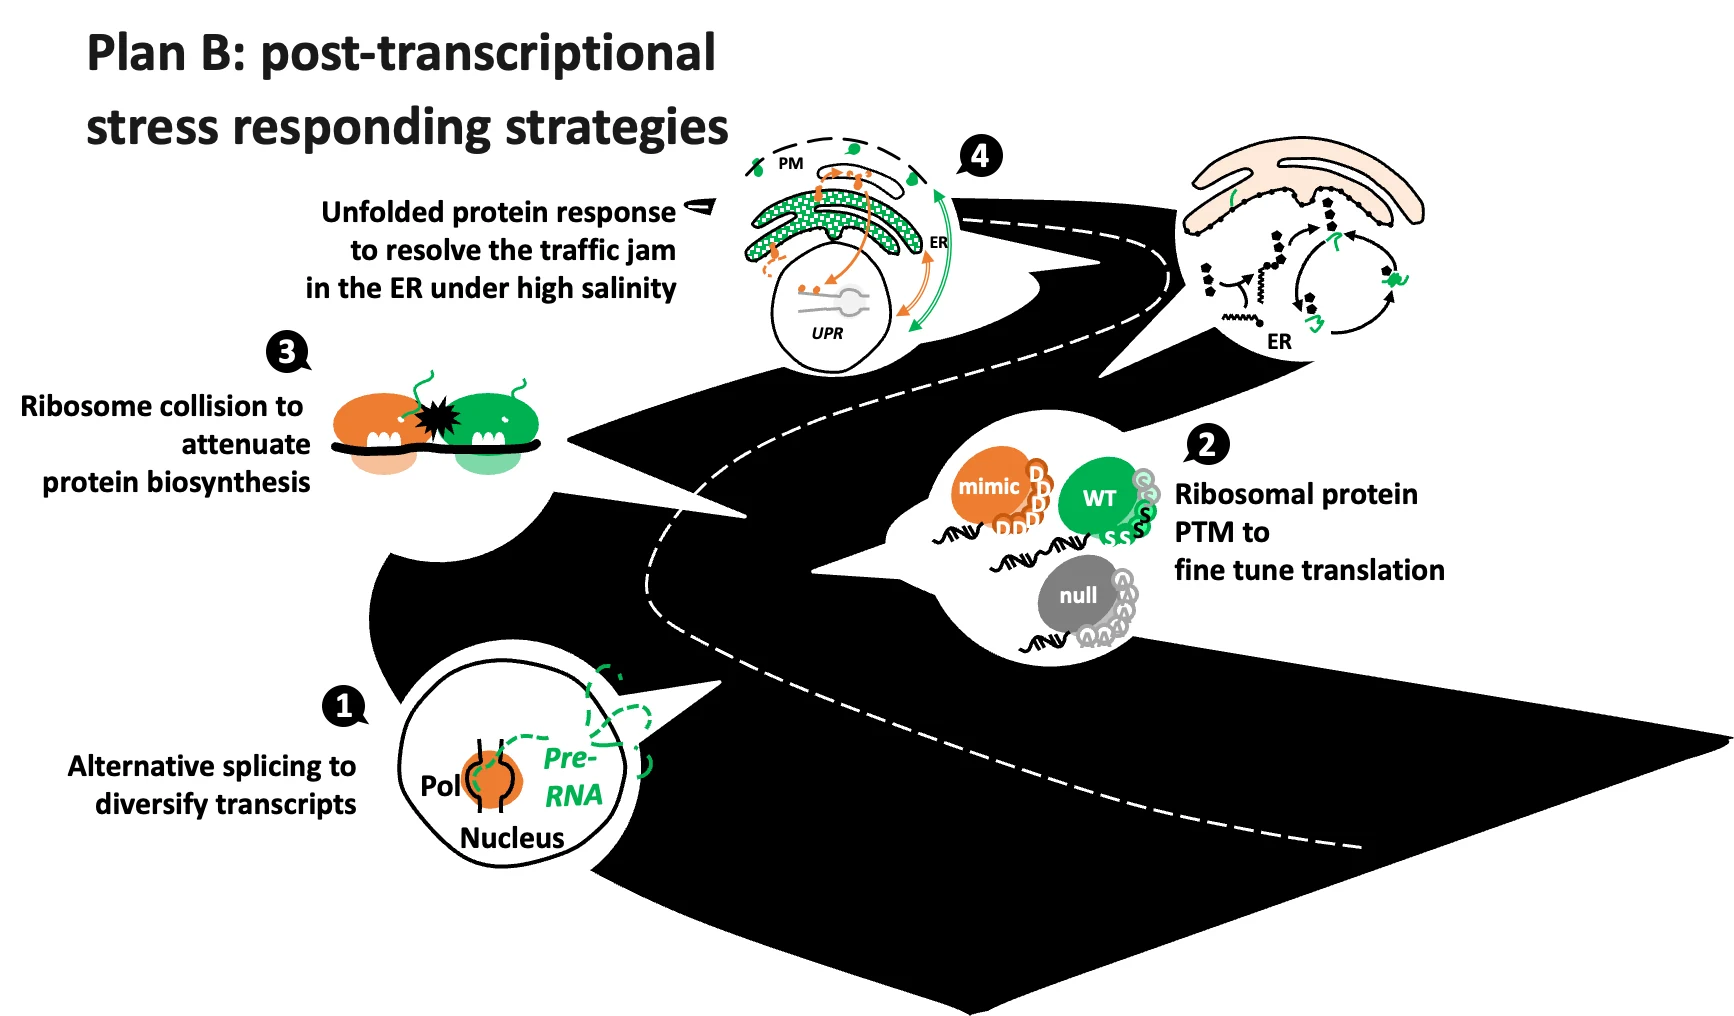
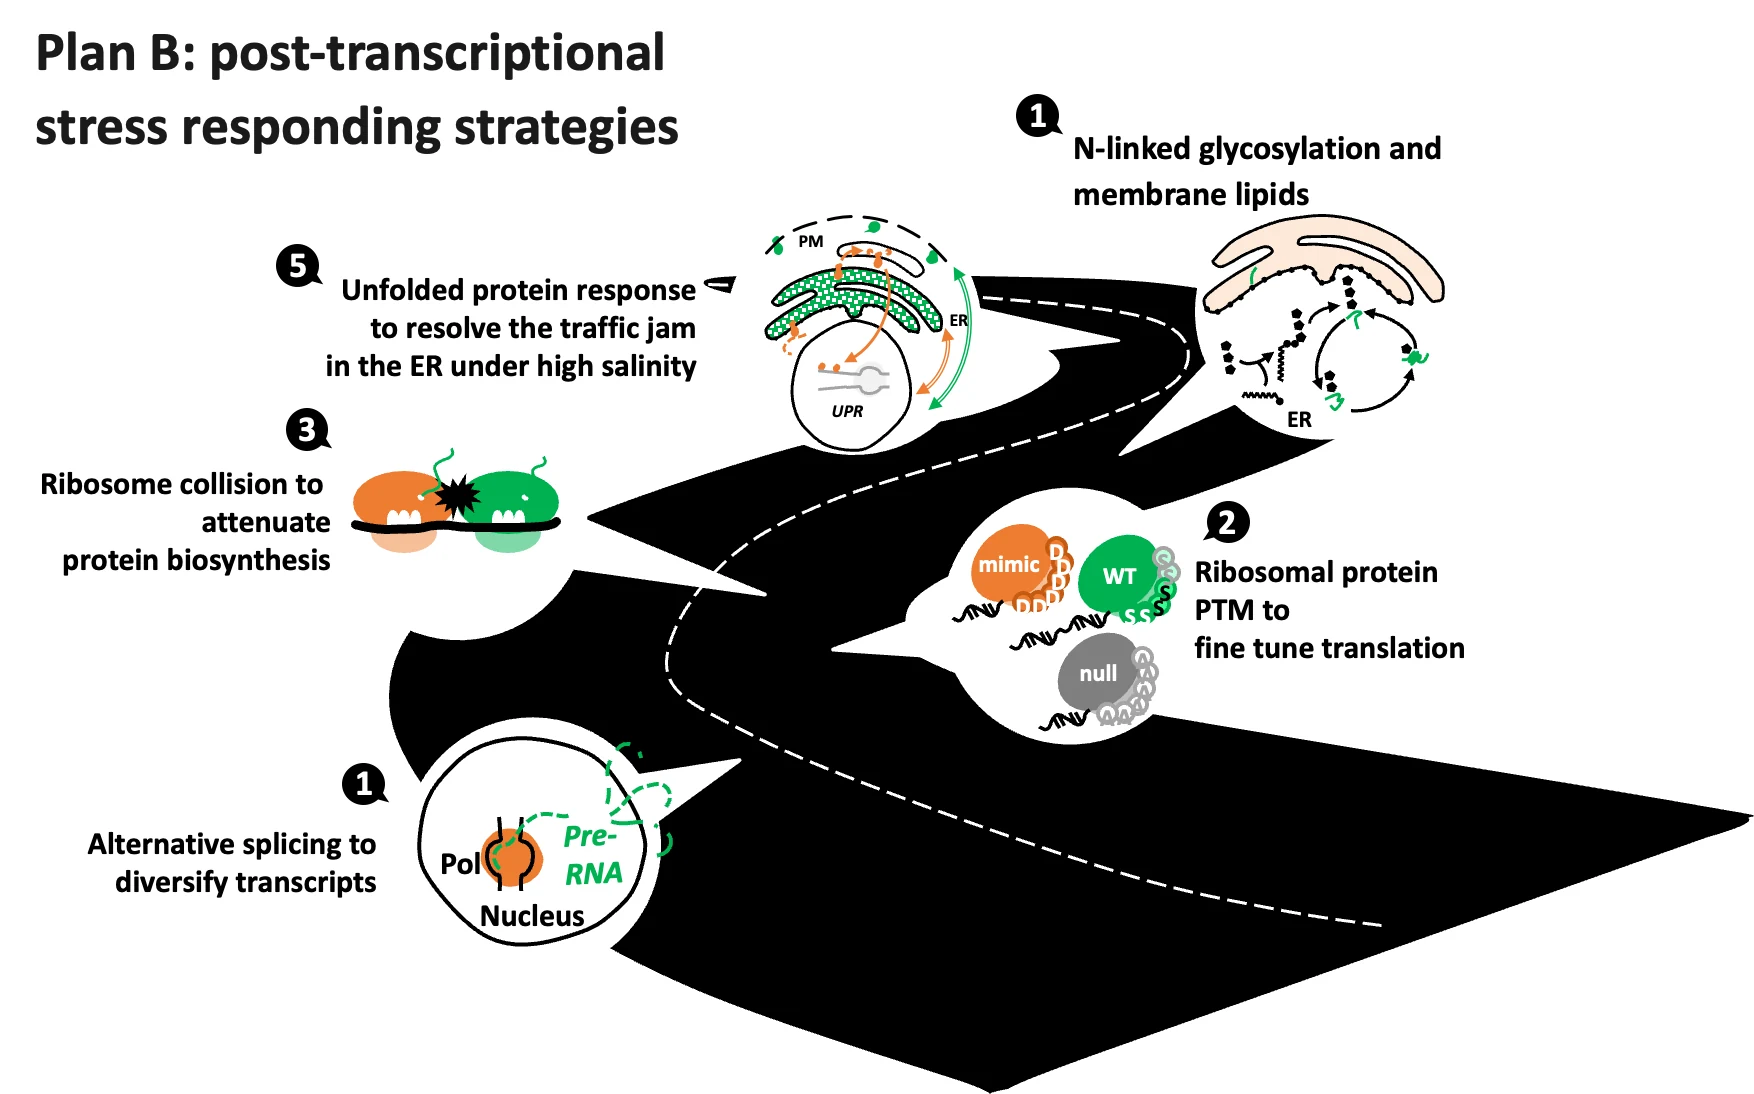
Use the revised Plan B figure with the glycosylation and lipids label
The new version labels the ER bubble "N-linked glycosylation and
membrane lipids", so its hotspot now leads to research theme 3
(lipids, ER structure and reproduction), which gets an anchor. The
other four hotspots follow the shifted layout, the alt text names the
new label, and the stray dash in the top-right corner is removed again.

Claude-Session: https://claude.ai/code/session_01TpwXJzNacVUoHZmVEmmtbJ

diff --git a/index.html b/index.html
@@ -856,7 +856,7 @@ footer::before{top:0}
       <h3 data-en="2. Protein folding, the UPR, and salt stress" data-zh="二、蛋白質折疊、未折疊蛋白反應與鹽逆境">2. Protein folding, the UPR, and salt stress</h3>
       <p data-en-html="This line of research asks how plants sense and resolve folding overload in the ER, with a focus on the heterotrimeric G-protein β subunit AGB1 and the membrane-bound transcription factor bZIP17 under salt stress. We follow how this axis links the unfolded protein response to salt-induced changes in gene expression and protein levels, and to the remodeling of protective barriers in roots. Tunicamycin-based genetic screens work alongside physiologically relevant triggers such as salinity. The red alga &lt;i&gt;C. merolae&lt;/i&gt;, now being established in the lab, will add a minimal-eukaryote view of how the UPR sensor IRE1 works without the redundancy seen in higher plants." data-zh-html="這條研究主軸探討植物如何感知並解除內質網中的折疊過載，聚焦異三聚體 G 蛋白 β 次單元 AGB1 與膜結合轉錄因子 bZIP17 在鹽逆境下的角色。我們追蹤這條軸線如何把未折疊蛋白反應，連結到鹽誘導的基因表現與蛋白質變化，以及根部保護屏障的重塑。研究上同時運用以 tunicamycin 進行的遺傳篩選，以及鹽害等生理相關的誘發條件。正在實驗室建立的紅藻 &lt;i&gt;C. merolae&lt;/i&gt;，將以極簡真核的角度，解析 UPR 感測器 IRE1 在沒有高等植物冗餘性時如何運作。">This line of research asks how plants sense and resolve folding overload in the ER, with a focus on the heterotrimeric G-protein β subunit AGB1 and the membrane-bound transcription factor bZIP17 under salt stress. We follow how this axis links the unfolded protein response to salt-induced changes in gene expression and protein levels, and to the remodeling of protective barriers in roots. Tunicamycin-based genetic screens work alongside physiologically relevant triggers such as salinity. The red alga <i>C. merolae</i>, now being established in the lab, will add a minimal-eukaryote view of how the UPR sensor IRE1 works without the redundancy seen in higher plants.</p>
     </div>
-    <div class="theme-block">
+    <div class="theme-block" id="theme-3">
       <h3 data-en="3. Lipids, ER structure, and reproduction under stress" data-zh="三、脂質、內質網結構與逆境下的生殖">3. Lipids, ER structure, and reproduction under stress</h3>
       <p data-en="This research examines how lipid metabolism and membrane remodeling shape proteostasis across organelles. A central entry point is dolichol, a polyisoprenoid lipid that carries the sugar chains for N-glycosylation in the ER. Building on earlier work showing that the dolichol kinase DOK1 is involved in flowering time and reproduction, we ask how DOK1 protects cells during ER stress and how this function extends to crop reproduction under high temperature. By combining lipidomics, genetic analysis, and stress assays, this work seeks to clarify how membrane state modulates ER stress signaling and translational control." data-zh="本研究檢視脂質代謝與膜重塑如何影響跨胞器的蛋白質恆定。核心切入點是多萜醇（dolichol），這種類異戊二烯脂質在內質網中負責攜帶 N-醣基化所需的糖鏈。延續先前發現多萜醇激酶 DOK1 參與開花時間與生殖的研究，我們探討 DOK1 如何在內質網壓力下保護細胞，以及這項功能如何延伸到作物在高溫下的生殖。結合脂質體學、遺傳學分析與逆境測試，釐清膜狀態如何調節內質網壓力訊號與轉譯調控。">This research examines how lipid metabolism and membrane remodeling shape proteostasis across organelles. A central entry point is dolichol, a polyisoprenoid lipid that carries the sugar chains for N-glycosylation in the ER. Building on earlier work showing that the dolichol kinase DOK1 is involved in flowering time and reproduction, we ask how DOK1 protects cells during ER stress and how this function extends to crop reproduction under high temperature. By combining lipidomics, genetic analysis, and stress assays, this work seeks to clarify how membrane state modulates ER stress signaling and translational control.</p>
     </div>
@@ -890,12 +890,12 @@ footer::before{top:0}
     <p style="font-size:13px" data-en="Papers from Ryan's doctoral and postdoctoral work at the Institute of Plant and Microbial Biology, Academia Sinica, grouped by the three lines the NTU lab builds on. The two single-author papers (2024, 2025) grew out of a question Ryan set during his PhD and has pursued on his own since." data-zh="Ryan 於中央研究院植物暨微生物學研究所博士與博士後期間的論文，依臺大實驗室延續的三條研究主線分組。其中兩篇單一作者論文（2024、2025），是 Ryan 博士階段起自行設定、持續推進的題目。">Papers from Ryan's doctoral and postdoctoral work at the Institute of Plant and Microbial Biology, Academia Sinica, grouped by the three lines the NTU lab builds on. The two single-author papers (2024, 2025) grew out of a question Ryan set during his PhD and has pursued on his own since.</p>
     <figure class="proj-summary">
       <div class="proj-summary-wrap">
-        <img src="img/research-planb.webp" alt="Plan B: post-transcriptional stress responding strategies, drawn as a road. 1, alternative splicing diversifies transcripts. 2, ribosomal protein modification fine-tunes translation. 3, ribosome collisions attenuate protein synthesis. 4, the unfolded protein response resolves the traffic jam in the ER under high salinity. A fifth bubble shows N-linked glycosylation in the ER." loading="lazy" id="summary-img">
-        <a class="hotspot" href="#project-1" aria-label="Alternative splicing, see Project 1" data-label="Alternative splicing → Project 1" style="left:3.5%;top:66%;width:34%;height:20%"></a>
-        <a class="hotspot" href="#project-1" aria-label="Ribosomal protein PTM, see Project 1" data-label="Ribosomal protein PTM → Project 1" style="left:50.7%;top:40%;width:33%;height:25%"></a>
-        <a class="hotspot" href="#theme-1" aria-label="Ribosome collision, see Theme 1" data-label="Ribosome collision → Theme 1" style="left:1%;top:33.5%;width:31%;height:16%"></a>
-        <a class="hotspot" href="#theme-2" aria-label="UPR under salinity, see Theme 2" data-label="UPR under salinity → Theme 2" style="left:17.3%;top:15%;width:38%;height:18%"></a>
-        <a class="hotspot" href="#project-3" aria-label="N-linked glycosylation, see Project 3" data-label="N-linked glycosylation → Project 3" style="left:67.5%;top:13%;width:15%;height:23%"></a>
+        <img src="img/research-planb.webp" alt="Plan B: post-transcriptional stress responding strategies, drawn as a road. Alternative splicing diversifies transcripts; ribosomal protein modification fine-tunes translation; ribosome collisions attenuate protein synthesis; the unfolded protein response resolves the traffic jam in the ER under high salinity; and an ER bubble shows N-linked glycosylation and membrane lipids." loading="lazy" id="summary-img">
+        <a class="hotspot" href="#project-1" aria-label="Alternative splicing, see Project 1" data-label="Alternative splicing → Project 1" style="left:4.6%;top:69.5%;width:33.6%;height:16.9%"></a>
+        <a class="hotspot" href="#project-1" aria-label="Ribosomal protein PTM, see Project 1" data-label="Ribosomal protein PTM → Project 1" style="left:51.3%;top:45.2%;width:32.5%;height:22.9%"></a>
+        <a class="hotspot" href="#theme-1" aria-label="Ribosome collision, see Theme 1" data-label="Ribosome collision → Theme 1" style="left:2.0%;top:37.5%;width:30.5%;height:16.0%"></a>
+        <a class="hotspot" href="#theme-2" aria-label="UPR under salinity, see Theme 2" data-label="UPR under salinity → Theme 2" style="left:15.7%;top:21.9%;width:39.9%;height:15.1%"></a>
+        <a class="hotspot" href="#theme-3" aria-label="Glycosylation and lipids, see Theme 3" data-label="Glycosylation and lipids → Theme 3" style="left:57.6%;top:8.7%;width:25.1%;height:31.5%"></a>
       </div>
     </figure>
     <div class="proj-list">
